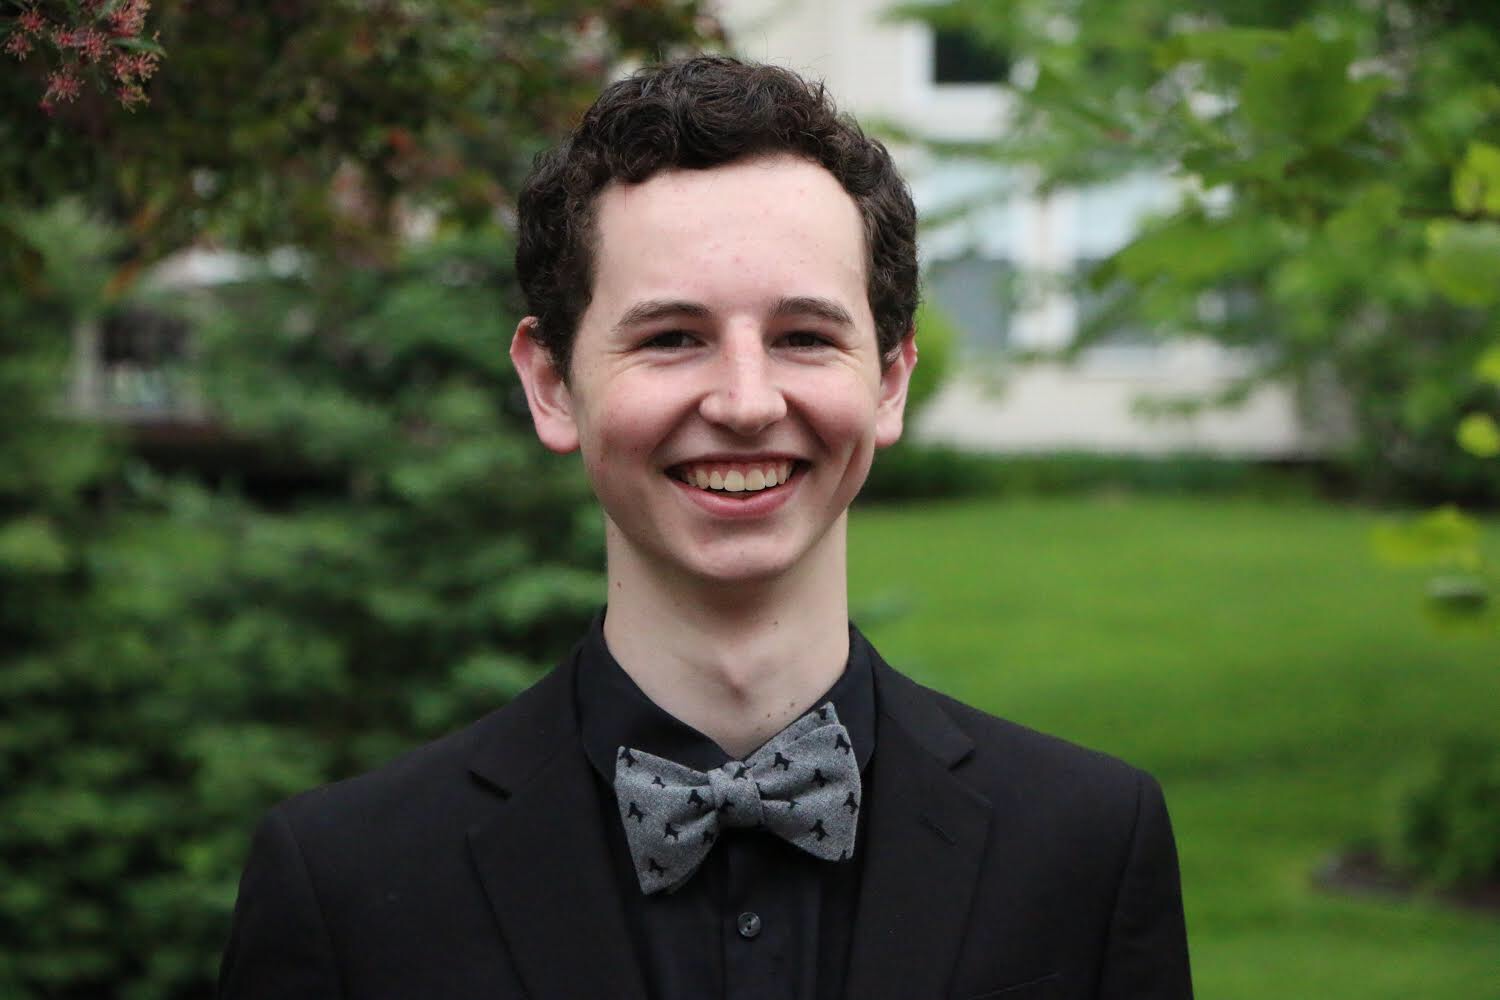
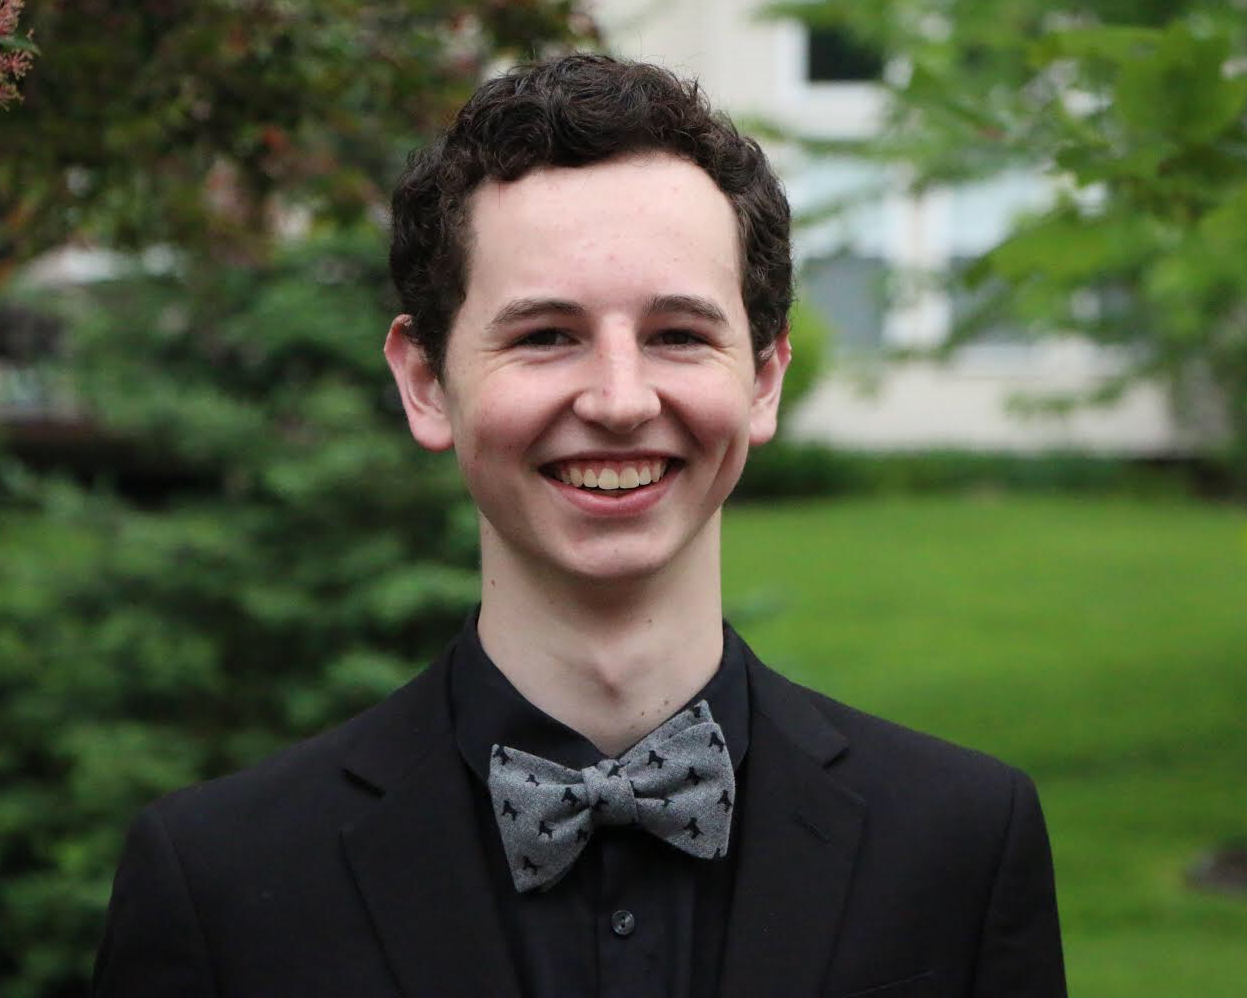
Make images look better

diff --git a/html/aboutus.html b/html/aboutus.html
@@ -68,7 +68,7 @@
             </div>
             <div class="card">
               <div class="image">
-                <img src="/images/Juliet.JPG">
+                <img src="/images/juliet.jpg">
               </div>
               <div class="content">
                 <div class="header">Juliet</div>
@@ -83,7 +83,7 @@
             </div>
             <div class="card">
               <div class="image">
-                <img src="/images/CavunProfessionalPicture.png">
+                <img src="/images/isaiahProfessional.png">
               </div>
               <div class="content">
                 <div class="header">Isaiah</div>
@@ -97,7 +97,7 @@
             </div>
             <div class="card">
               <div class="image">
-                <img src="/images/Pratik.jpeg">
+                <img src="/images/pratik.jpg">
               </div>
               <div class="content">
                 <div class="header">Pratik</div>
@@ -125,7 +125,7 @@
             </div>
             <div class="card">
               <div class="image">
-                <img src="/images/Logan.PNG">
+                <img src="/images/logan.JPG">
               </div>
               <div class="content">
                 <div class="header">Logan</div>
@@ -169,7 +169,21 @@
             </div>
             <div class="card">
               <div class="image">
-                <img src="/images/CavunProfessionalPicture.png">
+                <img src="/images/teoh.jpg">
+              </div>
+              <div class="content">
+                <div class="header">Teoh</div>
+                <div class="meta">
+                  <span class="date">Engineering Team</span>
+                </div>
+                <div class="description">
+                  Teoh is also a level 999 tech wizard
+                </div>
+              </div>
+            </div>
+            <div class="card">
+              <div class="image">
+                <img src="/images/tom.jpg">
               </div>
               <div class="content">
                 <div class="header">Tom</div>
